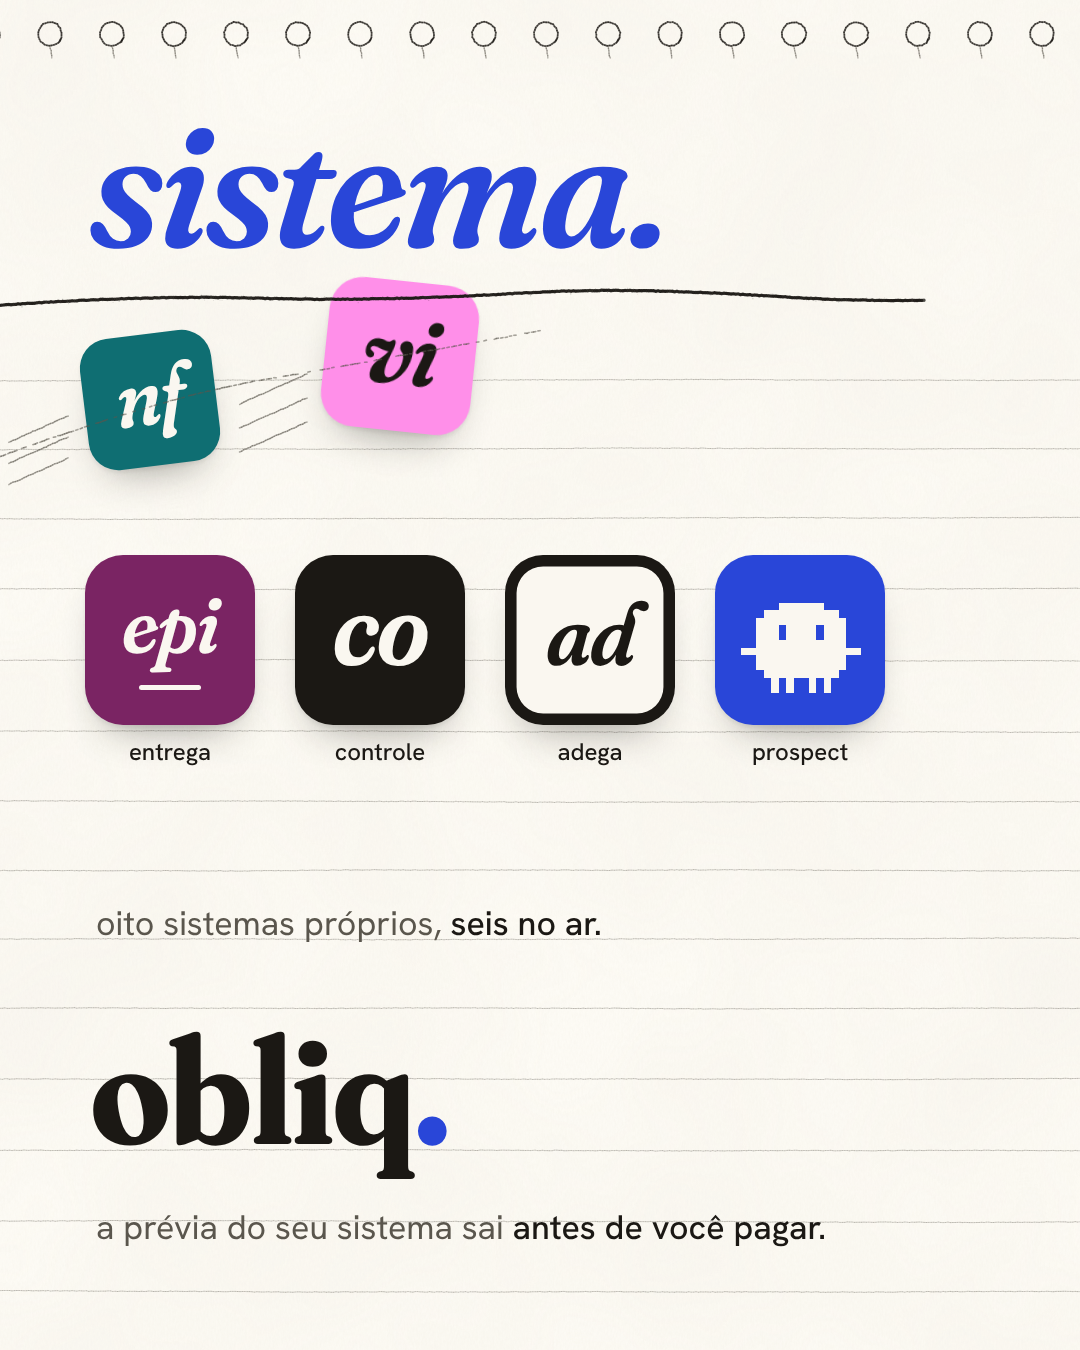
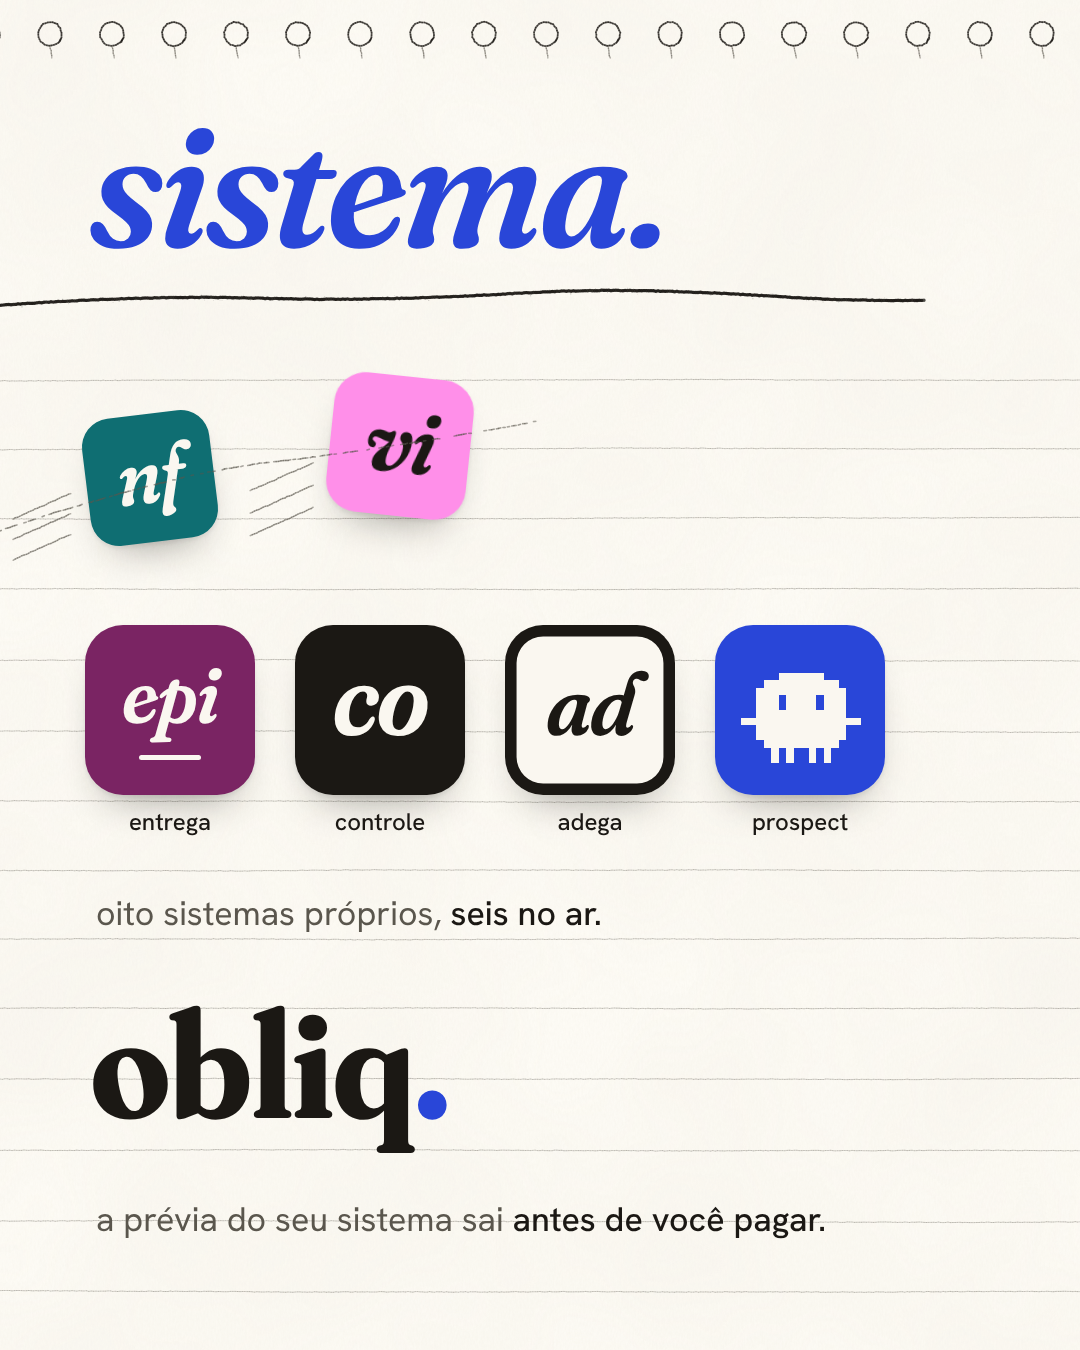
Fixados: nenhum ícone passa acima do sublinhado da frase
Claude-Session: https://claude.ai/code/session_01STHmmjn19Djo7ouhFXERq4

diff --git a/fixados-obliq/fixados.html b/fixados-obliq/fixados.html
@@ -67,10 +67,10 @@ canvas.lapis { left: 0; top: 0; width: 3240px; height: 1350px; pointer-events: n
 #ponto1 { left: 470px; top: 1010px; }
 #ponto2 { left: 1352px; top: 818px; }
 #nota { left: 1190px; top: 1226px; }
-#marca { left: 2250px; top: 1016px; font-family: 'Fraunces', serif; font-weight: 700; font-variation-settings: var(--fraunces); letter-spacing: -0.015em; font-size: 150px; line-height: 1; }
+#marca { left: 2250px; top: 990px; font-family: 'Fraunces', serif; font-weight: 700; font-variation-settings: var(--fraunces); letter-spacing: -0.015em; font-size: 150px; line-height: 1; }
 #marca i { font-style: normal; color: var(--azul); }
-#convite { left: 2256px; top: 1204px; width: 900px; }
-#oito { left: 2256px; top: 900px; }
+#convite { left: 2256px; top: 1196px; width: 900px; }
+#oito { left: 2256px; top: 890px; }
 </style>
 </head>
 <body>
@@ -104,13 +104,13 @@ canvas.lapis { left: 0; top: 0; width: 3240px; height: 1350px; pointer-events: n
 // os ícones: os quatro primeiros saem voando do notebook e atravessam a emenda; os outros pousaram
 const ICONES = [
   { g: '3d',  bg: '#E3A008', fg: '#1B1814', x: 1800, y: 660, s: 92,  r: -12, nome: 'relevo' },
-  { g: 've',  bg: '#4F7A2E', fg: '#FAF7F0', x: 1990, y: 520, s: 112, r: 9,   nome: 'validade', cls: 'x' },
-  { g: 'nf',  bg: '#0F6E72', fg: '#FAF7F0', x: 2310, y: 400, s: 132, r: -7,  nome: 'confere' },
-  { g: 'vi',  bg: '#FF8FE9', fg: '#1B1814', x: 2560, y: 356, s: 150, r: 6,   nome: 'vitrine' },
-  { g: 'epi', bg: '#7A2463', fg: '#FAF7F0', x: 2330, y: 640, s: 170, r: 0,   nome: 'entrega', cls: 'epi' },
-  { g: 'co',  bg: '#1B1814', fg: '#FAF7F0', x: 2540, y: 640, s: 170, r: 0,   nome: 'controle', cls: 'x' },
-  { g: 'ad',  bg: '#FAF7F0', fg: '#1B1814', x: 2750, y: 640, s: 170, r: 0,   nome: 'adega', cls: 'adega' },
-  { g: '',    bg: '#2946D8', fg: '#FAF7F0', x: 2960, y: 640, s: 170, r: 0,   nome: 'prospect', ponto: true },
+  { g: 've',  bg: '#4F7A2E', fg: '#FAF7F0', x: 1990, y: 590, s: 112, r: 9,   nome: 'validade', cls: 'x' },
+  { g: 'nf',  bg: '#0F6E72', fg: '#FAF7F0', x: 2310, y: 478, s: 128, r: -7,  nome: 'confere' },
+  { g: 'vi',  bg: '#FF8FE9', fg: '#1B1814', x: 2560, y: 446, s: 140, r: 6,   nome: 'vitrine' },
+  { g: 'epi', bg: '#7A2463', fg: '#FAF7F0', x: 2330, y: 710, s: 170, r: 0,   nome: 'entrega', cls: 'epi' },
+  { g: 'co',  bg: '#1B1814', fg: '#FAF7F0', x: 2540, y: 710, s: 170, r: 0,   nome: 'controle', cls: 'x' },
+  { g: 'ad',  bg: '#FAF7F0', fg: '#1B1814', x: 2750, y: 710, s: 170, r: 0,   nome: 'adega', cls: 'adega' },
+  { g: '',    bg: '#2946D8', fg: '#FAF7F0', x: 2960, y: 710, s: 170, r: 0,   nome: 'prospect', ponto: true },
 ];
 const pagina = document.getElementById('folha');
 const antes = document.getElementById('oito');
@@ -166,7 +166,7 @@ function tracos() {
   seta(ctx, [[660, 610], [860, 520], [1080, 540], [1260, 660], [1380, 830]], { w: 3.4, color: TINTA, rng: stream(SEED * 29 + 3), cabeca: 22 });
 
   // o rastro dos ícones saindo do notebook, tracejado, atravessando a outra emenda
-  const rastro = [[1640, 860], [1720, 740], ...ICONES.slice(0, 4).map((i) => [i.x, i.y]), [2700, 330]];
+  const rastro = [[1640, 860], [1720, 740], ...ICONES.slice(0, 4).map((i) => [i.x, i.y]), [2700, 420]];
   wob(ctx, chaikin(rastro, false, 3), { w: 1.6, color: TINTA2, rng: stream(SEED * 29 + 4), alpha: 0.6, amp: 0.8, gap: 0.5, noDust: true });
   // riscos de velocidade atrás de cada ícone voando
   for (const i of ICONES.slice(0, 4)) for (const k of [-1, 0, 1]) {
